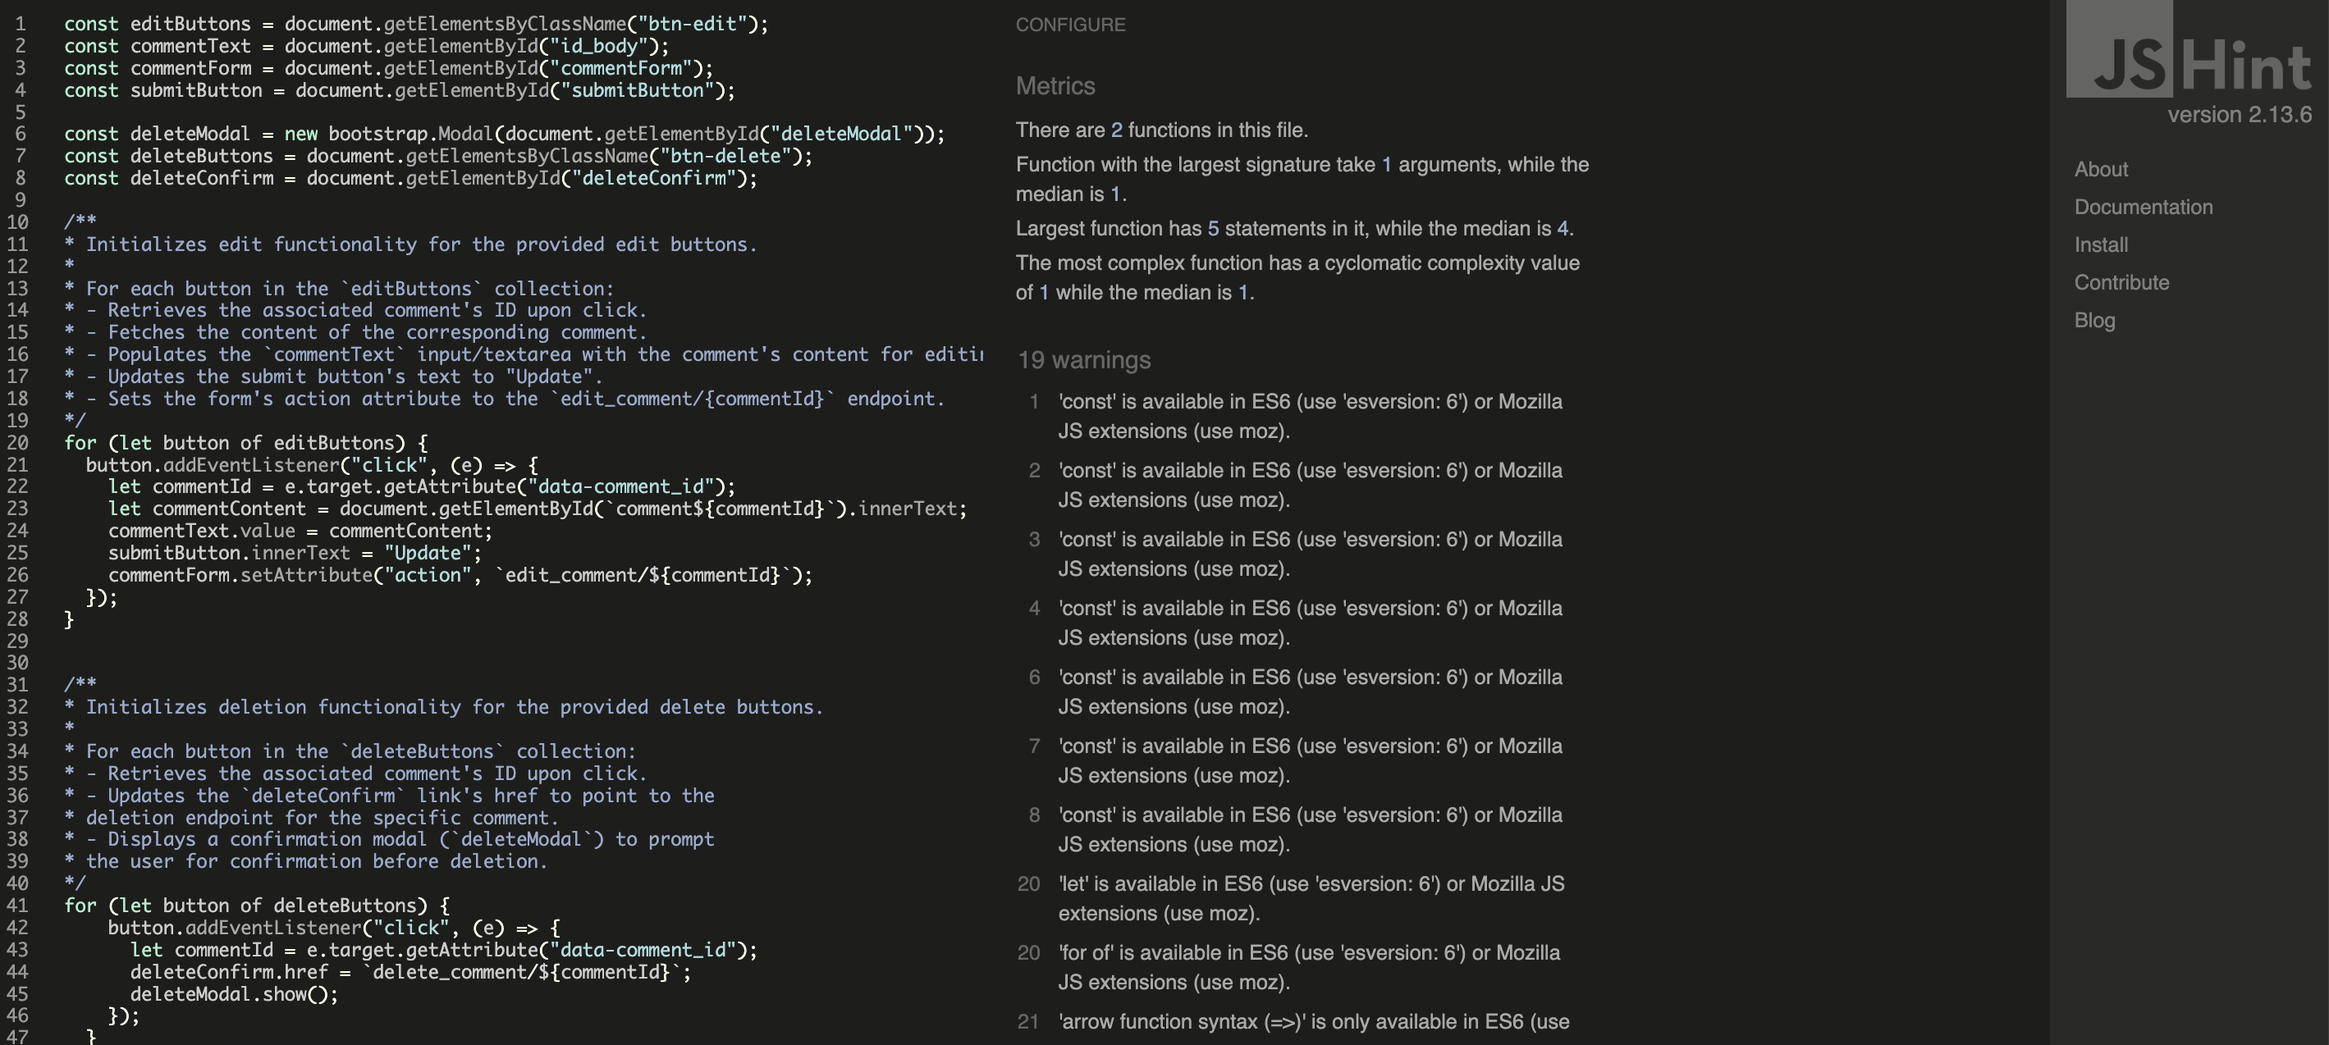
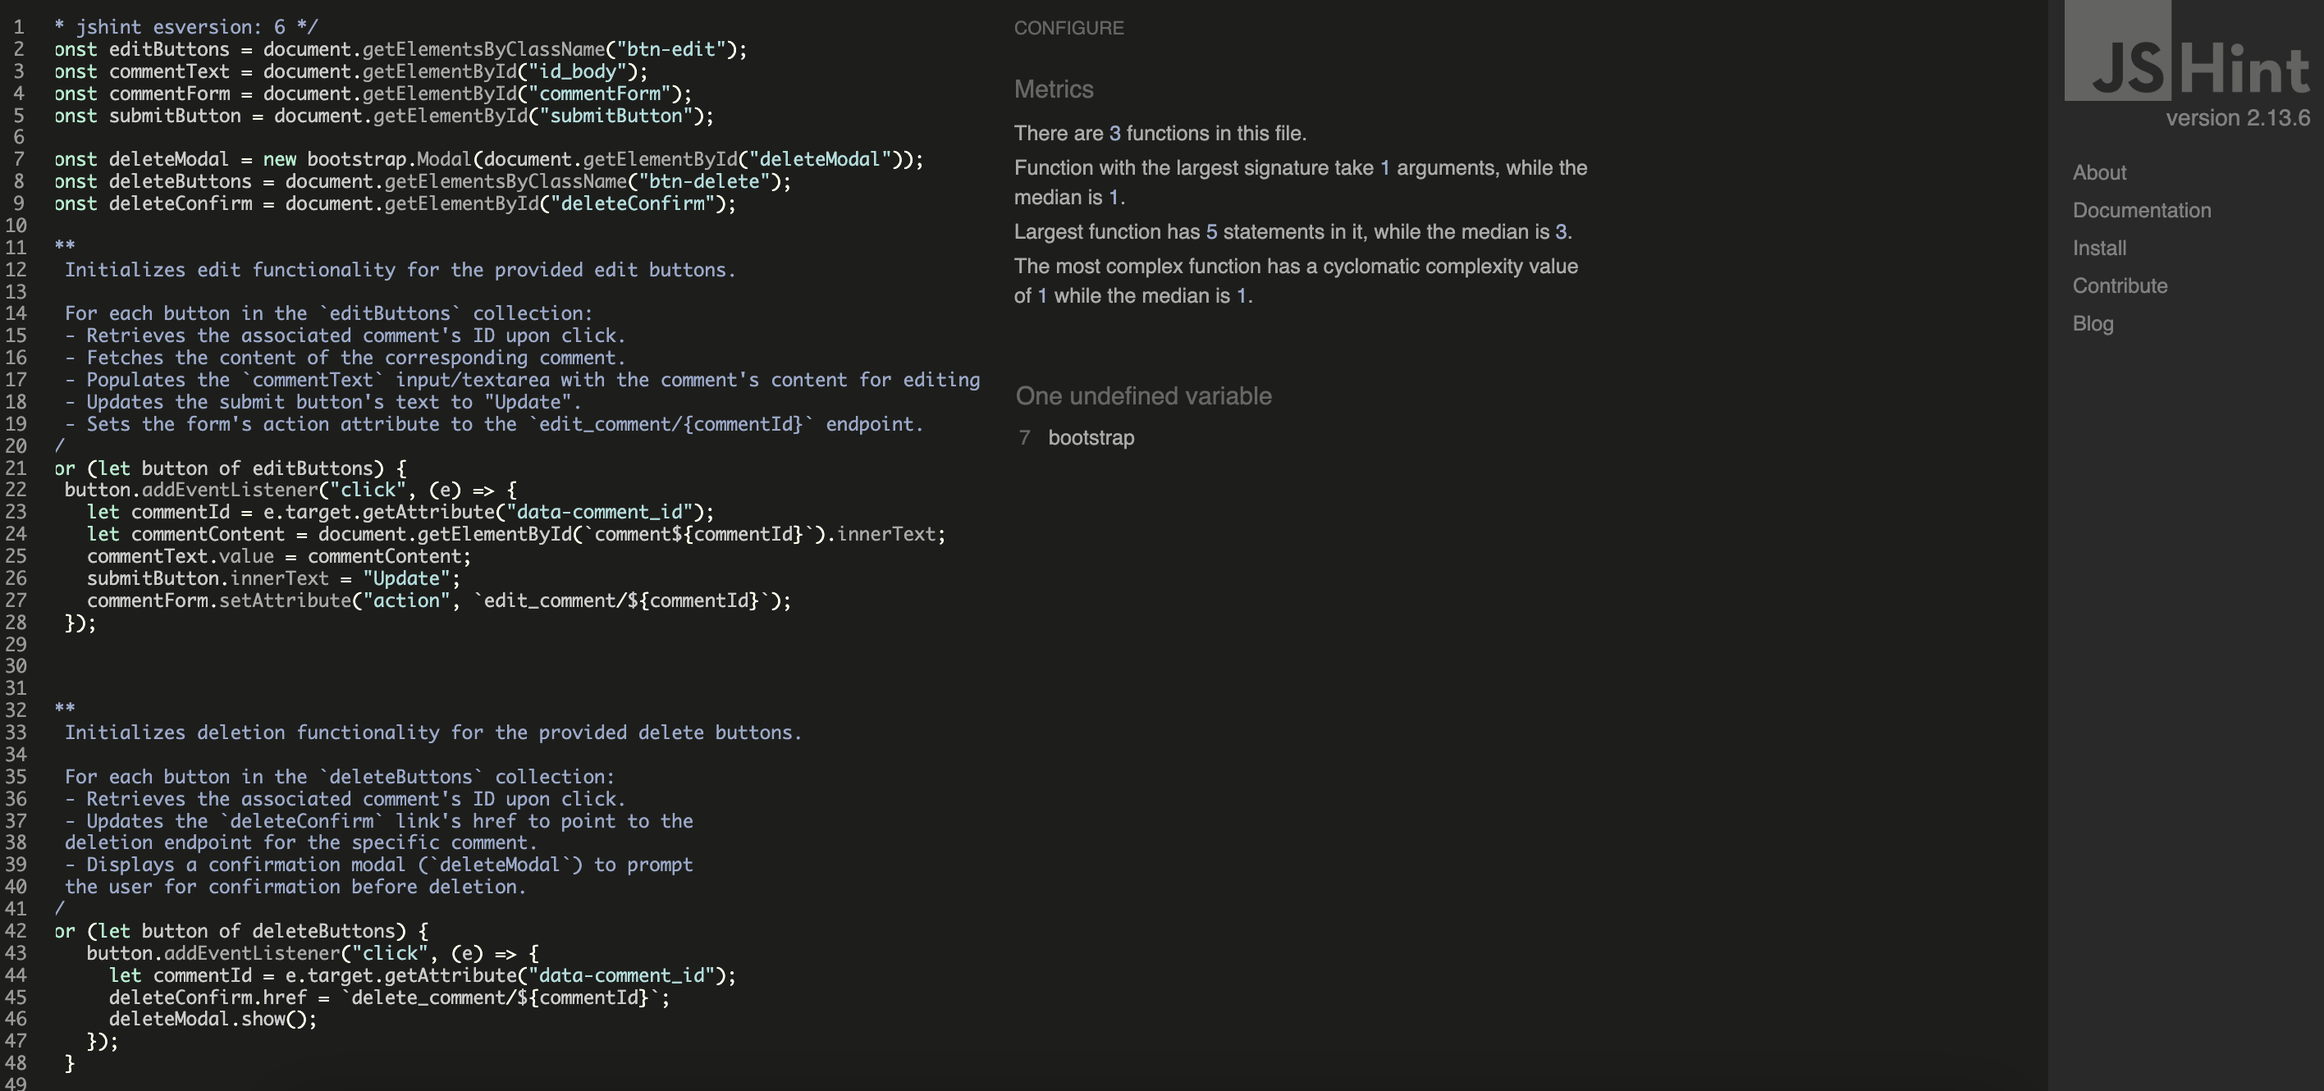
proofread, edit, and finalise README

diff --git a/staticfiles/js/comments.js b/staticfiles/js/comments.js
@@ -45,3 +45,13 @@ for (let button of deleteButtons) {
       deleteModal.show();
     });
   }
+
+  for (let button of deleteButtons) {
+    button.addEventListener("click", (e) => {
+        let postId = e.target.getAttribute("data-post_id");
+        deleteConfirm.href = `delete/${postId}/`;
+        deleteModal.show();
+    });
+}
+
+  

diff --git a/README.md b/README.md
@@ -94,32 +94,20 @@ AC 3: If no recipes match the entered ingredient, display a message indicating t
 
 The following table summarises the user stories, their prioritisation, and their associated sprints:
 | #  | Title of User Story                                | MoSCoW Prioritisation | Sprint Number |
-|----|--------------------------------------|------------------------|---------------|
-| 1  | Search for recipes by ingredients    | Should Have            | Sprint 2      |
-| 2  | Show the main purpose of the site    | Must Have             | Sprint 1      |
-| 3  | Sign up as a member                  | Must Have             | Sprint 1      |
-| 4  | Share recipes with the community     | Should Have            | Sprint 2      |
-| 5  | Save favorite recipes                | Could Have            | Sprint 3      |
-| 6  | Comment on recipes and engage        | Must Have             | Sprint 1      |
-| 7  | Sign in as members                   | Must Have             | Sprint 1      |
-| 8  | Scan food barcode to log ingredients | Won't Have            | N/A           |
-| 9  | Show nutrition value and calories    | Won't Have            | N/A           |
-| 10 | See blog posts and recipes posted by the admin      | Must Have             | Sprint 1      |
-| 11 | Sign-in to see personal profile page | Could Have            | Sprint 3      |
+|----|----------------------------------------------------|------------------------|---------------|
+| 1  | Show the main purpose of the site (MVP)            | Must Have             | Sprint 1      |
+| 2  | See blog posts and recipes posted by the admin (MVP)| Must Have             | Sprint 1      |
+| 3  | Sign up as a member to comment (MVP)               | Must Have             | Sprint 1      |
+| 4  | Sign in as members (MVP)                           | Must Have             | Sprint 1      |
+| 5  | Comment on recipes and engage with users (MVP)     | Must Have             | Sprint 1      |
+| 6  | Search for recipes by ingredients                  | Should Have           | Sprint 2      |
+| 7  | Share recipes with the community                   | Should Have           | Sprint 2      |
+| 8  | Save favorite recipes                              | Could Have            | Sprint 3      |
+| 9  | Sign-in to see personal profile page               | Could Have            | Sprint 3      |
+| 10 | Scan food barcode to log ingredients               | Won't Have            | N/A           |
+| 11 | Show nutrition value and calculate calories        | Won't Have            | N/A           |
 
-### All User Stories
-
-- (MVP) Show the main purpose of the site: As a first-time visitor, I want to easily understand the main purpose of the site and learn more about zero-waste cooking, so that I can decide whether to use it or not.
-- (MVP) See recipes and blog posts: As a user, I want to be able to see recipes and blog posts, so that I can learn more about zero-waste recipes and cooking techniques.
-- (MVP) Sign up as a member to comment: As a user, I want to sign up as a member, so that I can comment on recipes and posts.
-- (MVP) Sign in to post, edit, and delete posts and comments: As a logged-in user, I want to be able to post, edit, and delete posts and comments.
-- (MVP) Comment on recipes and engage with other users: As a user, I want to be able to comment on recipes and engage with other users, so that I can learn from others, share my tips, and build a community around zero-waste cooking.
-- Search for recipes by ingredients: As a user, I want to search for recipes based on ingredients I have available, so that I can use up what I have and avoid food waste.
-- Share recipes with the community: As a registered user, I want to be able to share my own recipes with the community, so that I can contribute to the site and help others.
-- Save favorite recipes: As a user, I want to be able to save my favorite recipes for easy access later, so that I can quickly find and cook the recipes I enjoy.
-- Sign-in to see my personal profile page: As a user, I want to be able to sign in to the app so that I can access my personal information and settings.
-- Scan food barcode to log ingredients: As a user, I want to be able to scan the barcode of a food item, so that I can easily log its ingredients.
-- Show nutrition value and calculate calories: As a user, I want to be able to see the nutrition value of a food item and calculate its calories, so that I can make informed choices about what I eat.
+** All User Stories, their descriptions and acceptance criteria can be found on [my Kanban board here](https://github.com/users/waiyiwong/projects/3/views/1).
 
 ## User Experience (UX)
 
@@ -127,13 +115,13 @@ The following table summarises the user stories, their prioritisation, and their
 ### 1. Strategy Plane
 
 #### 1.1 Goal:
-Help users reduce food waste by finding recipes based on available ingredients.
+Help users reduce food waste by finding recipes and information on the topic.
 
 #### 1.2 User Needs:
-- Reduce food waste by finding recipes with available ingredients.
 - Access sustainable cooking tips and recipes.
-- Engage with other users through comments and sharing.
 - Learn about zero-waste cooking practices.
+- Engage with other users through comments and sharing.
+- Reduce food waste by finding recipes with available ingredients.
 
 #### 1.3 Business Goals:
 - Encourage sustainability in the kitchen.
@@ -149,10 +137,11 @@ Help users reduce food waste by finding recipes based on available ingredients.
 1. **Responsive Navigation Bar**: Allows users to easily navigate the site on all devices.
 2. **User Authentication**: Enables users to register, log in, and log out.
 3. **Recipe Search**: Allows users to search for recipes based on available ingredients.
-4. **Dietary Preference Search**: filters dietary restrictions and cuisine type
+4. **Dietary Preference Search**: recipe search by dietary restrictions and cuisine type
 5. **Recipe Details Page**: Displays full recipe information, including ingredients, instructions, and user comments.
 6. **Commenting System**: Allows users to engage with recipes by leaving comments.
-7. **Responsive Design**: Ensures the site is fully functional and visually appealing on all device sizes.
+7. **Zero Waste Cooking Tips**: Allows users to browse and learn about zero-waste cooking practices.
+8. **Responsive Design**: Ensures the site is fully functional and visually appealing on all device sizes.
 
 #### 2.2 CRUD Functionality for Key Features
 2.2.1 **Admin's CRUD Functionality**
@@ -206,7 +195,7 @@ Learn about the origins of the Zero Waste Cooking website, the motivations behin
 The footer includes essential copyright information and social media links for users to stay connected and engage with the Zero Waste Cooking community online.
 
 #### 3.7 Navigation:
-Simple top navbar with links to landing page, recipes, blog, about page, and user login/sign up.
+Simple top navbar with links to home, recipe, blog, about, and user login/sign up pages.
 
 ---
 
@@ -242,7 +231,7 @@ Wireframe - Homepage Desktop & Mobile
 
 #### 5.2 Color Scheme
 
-The color scheme focuses on sustainability, complemented by a natural, organic feel.
+The color scheme focuses on sustainability and provides a natural, organic feel.
 
 ![Zero Waste Cooking color scheme](static/images/color_scheme.png)
 
@@ -266,7 +255,7 @@ The site uses a clean, modern "League Gothic", serif fonts for easy readability 
 
 #### 5.4 Imagery
 
-I used AI image generation (via Freepik) to create the majority of the images on the site. These AI-generated images served as the foundation for redesigning and customizing the logo, hero image, and post images. The final designs were refined by myself using Adobe Fresco and Canva. 
+I used AI image generation (Freepik) to create the majority of the images on the site. These AI-generated images served as the foundation for redesigning and customising the logo, hero image, and post images. The final designs were refined by myself using Adobe Fresco and Canva. 
 The recipe imagery throughout the site is focused on fresh ingredients, completed dishes, and sustainable cooking practices.
 
 ## Technologies Used
@@ -285,10 +274,10 @@ The recipe imagery throughout the site is focused on fresh ingredients, complete
 3. [Bootstrap](https://getbootstrap.com/): Used for responsive design and styling.
 4. [Git](https://git-scm.com/): Used for version control.
 5. [GitHub](https://github.com/): Used to store the project repository.
-6. [Cloudinary](https://cloudinary.com/): Used for image hosting and management. (If implemented)
+6. [Cloudinary](https://cloudinary.com/): Used for image hosting and management.
 7. [Gunicorn](https://gunicorn.org/): Used as the HTTP server for deploying the Django application.
 8. Google Dev Tools - to debug and for testing responsiveness 
-9. [Am I Responsive](https://ui.dev/amiresponsive) and [Ignore X-Frame Headers Extension](https://chromewebstore.google.com/detail/ignore-x-frame-headers/gleekbfjekiniecknbkamfmkohkpodhe) - to acquire the responsiveness screenshot
+9. [Am I Responsive](https://ui.dev/amiresponsive) and [Ignore X-Frame Headers Extension](https://chromewebstore.google.com/detail/ignore-x-frame-headers/gleekbfjekiniecknbkamfmkohkpodhe) - to acquire the responsiveness screenshots
 
 ## Testing
 To ensure the functionality and reliability of the site, both automated and manual testing were adopted throughout the development process. 
@@ -300,12 +289,12 @@ A total of 14 automated tests were written and successfully passed, covering key
 
 **Manual testing**
 
-Manual testing was conducted to evaluate the site’s responsiveness, accessibility, and user experience across various devices and platforms. Testing was performed on devices such as the iPhone 15 Pro, Sony Xperia, iPad Pro, MacBook Air, and MacBook Pro to ensure the layout adapted seamlessly to different screen sizes. Additionally, the site was tested across major browsers, including Google Chrome and Safari, to verify cross-browser compatibility. The testing process focused on assessing the layout’s responsiveness, adherence to accessibility standards, and overall usability. Forms and pages were also tested with incorrect inputs to ensure proper error messages were displayed. No issues were identified during manual testing, and the site performed as expected across all tested devices and platforms.
+Manual testing was conducted to evaluate the site’s responsiveness, accessibility, and user experience across various devices and platforms. Testing was performed on devices such as the iPhone 15 Pro, Sony Xperia, iPad Pro, MacBook Air, and MacBook Pro to ensure the layout adapted seamlessly to different screen sizes. Additionally, the site was tested across major browsers, including Google Chrome and Safari, to verify cross-browser compatibility. 
 
-This combination of automated and manual testing ensures the site’s performance and quality are maintained across a range of devices and platforms.
+Forms and pages were also tested with incorrect inputs to ensure proper error messages were displayed. No issues were identified during manual testing, and the site performed as expected across all tested devices and platforms.
 
 ### Google Lighthouse performance
-for auditing the website
+for auditing the website. Performance, Accessibility and SEO are above 90 points, while Best Practices scored 61 due to Cloudinary images not being served in HTTPS format.
 <details open>
 <summary>Google Lighthouse Performance Score</summary>  
 
@@ -313,7 +302,7 @@ for auditing the website
 </details>
 
 ### WAVE Web Accessibility Evaluation Tools
-[WAVE Web Accessibility Evaluation Tools](https://wave.webaim.org/) is used to check the accessibility of the site
+[WAVE Web Accessibility Evaluation Tools](https://wave.webaim.org/) is used to check the accessibility of the site. No error found.
 <details open>
 <summary>WAVE Web Accessibility Evaluation Result</summary>
 
@@ -322,7 +311,7 @@ for auditing the website
 </details>
 
 ### HTML Validation
-[W3C HTML Validation](https://validator.w3.org/) is used to validate html codes for all pages
+[W3C HTML Validation](https://validator.w3.org/) is used to validate html codes for all pages. No errors found except 2 pages. Explanations are provided below.
 <details open>
 <summary>Screenshots of all HTML validations</summary>  
 
@@ -334,11 +323,11 @@ Recipe page
 
 About page
 ![w3c_html_validation for recipe page.png](static/images/validate_about.png)
-The W3C Validator shows 5 errors related to the obsolete `<font>` tag. These are generated by the rich-text editor, not the project's custom code. They do not impact functionality but stem from legacy HTML rendering by the editor.
+The W3C Validator reports 5 errors related to the obsolete < font> tag. These errors are generated by the rich-text editor (Summernote) rather than my code of this project. While they don't affect the site's functionality, they result from the editor's legacy HTML rendering. Although I could eliminate these errors by resetting the font color to the default in the rich-text editor, I prefer to retain the customized color for improved readability and to maintain consistency with my site's color scheme.
 
 Sign up page
 ![w3c_html_validation for sign up page.png](static/images/validate_sign_up.png)
-The W3C Validator flagged errors like unclosed tags and stray end tags, but these issues are not present in my source code. All elements and closing tags are correctly structured. The errors likely stem from how the validator interprets the rendered HTML.
+The W3C Validator flagged errors like unclosed tags and stray end tags, but these issues are not present in my code in my template/signup.html. All elements and closing tags are properly closed and structured. The errors likely stem from how the validator interprets the rendered HTML.
 
 Sign in page
 ![w3c_html_validation for sign in page.png](static/images/validate_sign_in.png)
@@ -349,7 +338,7 @@ Sign out page
 </details>
 
 ### CSS Validation
-[Jigsaw](https://jigsaw.w3.org/css-validator/) is for validating my CSS
+[Jigsaw](https://jigsaw.w3.org/css-validator/) is for validating my CSS with no error found.
 <details open>
 <summary>CSS validation</summary>  
 
@@ -357,26 +346,34 @@ Sign out page
 </details>
 
 ### Javascript Validation
-[Jshint](https://jshint.com/) is for validating my Javascript
+[JSHint version 2.13.6](https://jshint.com/) is for validating my Javascript.
 
 <details open>
 <summary>JS validation</summary>  
 
 JS validation for comments.js
 ![w3c_js_validation.png](static/images/validate_comments_js.png)
-- Functions: The file contains 2 functions, each with low complexity and a maximum of 5 statements.
-- Warnings: 19 warnings related to ES6 features (const, let, arrow functions, template literals) due to missing esversion: 6 configuration.
-- Undefined Variable: bootstrap is referenced but not defined.
+**Metrics**
+- There are 3 functions in this file.
+- Function with the largest signature take 1 arguments, while the median is 1.
+- Largest function has 5 statements in it, while the median is 3.
+- The most complex function has a cyclomatic complexity value of 1 while the median is 1.
 
-JS validation for comments.js
+**One undefined variable**
+-	bootstrap
+
+
+JS validation for script.js
 ![w3c_js_validation.png](static/images/validate_script_js.png)
-- Functions: The file contains 4 functions with low complexity. The largest function has 4 statements, and the most complex function has a cyclomatic complexity of 2.
-- Warnings: 7 warnings primarily related to ES6 features (const, arrow functions) due to missing esversion: 6 configuration.
-
+**Metrics**
+- There are 4 functions in this file.
+- Function with the largest signature take 1 arguments, while the median is 1.
+- Largest function has 4 statements in it, while the median is 0.5.
+- The most complex function has a cyclomatic complexity value of 2 while the median is 1.
 </details>   
 
 ### Python Validation
-The Python code in this Django project was validated for compliance with the PEP 8 style guide using  [**Flake 8 Linting Support**](https://flake8.pycqa.org/en/latest/) in Gitpod and a [**CI Python Linter**](https://pep8ci.herokuapp.com/) to systematically check the code for adherence to Python coding standards. While the majority of the code passed these validations, a few minor deviations remain unresolved, e.g. line too long. These exceptions were carefully reviewed and deemed acceptable as they do not affect the functionality or maintainability of the project.  
+The Python code in this Django project was validated for compliance with the PEP 8 style guide using  [**Flake 8 Linting Support**](https://flake8.pycqa.org/en/latest/) in Gitpod and [**CI Python Linter**](https://pep8ci.herokuapp.com/) to systematically check the code for adherence to Python coding standards. While the majority of the code passed these validations, a few minor deviations remain unresolved, e.g. line too long. These exceptions were carefully reviewed and deemed acceptable as they do not affect the functionality or maintainability of the project.  
 <details open>
 <summary>Python validation</summary>  
 
@@ -408,7 +405,7 @@ The Python code in this Django project was validated for compliance with the PEP
 
 5. **Delete Button on Recipe Post Modal**  
    - **Issue**: Clicking the delete button in the recipe post JS & modal redirected to the wrong link (`recipe/slug/delete/post_id`) instead of the correct link (`recipe/delete/post_id`). This prevented the post from being deleted.  
-   - **Fix**: Replaced the JS & modal function with a confirmation deletion template page, which resolved the issue and works perfectly.
+   - **Fix**: Replaced the JS & modal function with a confirmation deletion template page, which resolved the issue and now works perfectly.
 
 ### **Unsolved Bugs**
 - **Delete Recipe Post Button Modal**  
@@ -447,7 +444,7 @@ This project is deployed on Heroku. Here are the steps to deploy:
 
 ### Media
 
-- Default recipe images and site graphics are sourced from [Freepik](https://www.freepik.com/) and [Fontawesome](https://fontawesome.com/).
+- Default recipe images and site graphics are sourced from [Freepik](https://www.freepik.com/) and [Fontawesome](https://fontawesome.com/). Some of them are further edited by myself.
 
 ### AI Assistance
 - V1
@@ -461,6 +458,6 @@ I have drawn some inspiration from these projects:
 
 ### Acknowledgements
 
-- Coding coach (Thank you! JOHN and Roo), facilitators (Marko, Shelly, Vasi) and SME (Mark) for continuous helpful feedback.
+- Coding coach (Thank you! JOHN and Roo), facilitators (Marko, Shelly, Vasi) and SME (Mark) for continuous helpful feedback and support.
 - My wonderful Hackathon team mates for the 1st team project: Matthew and Daylion
 - The Code Institute Slack community for their support and advice.
